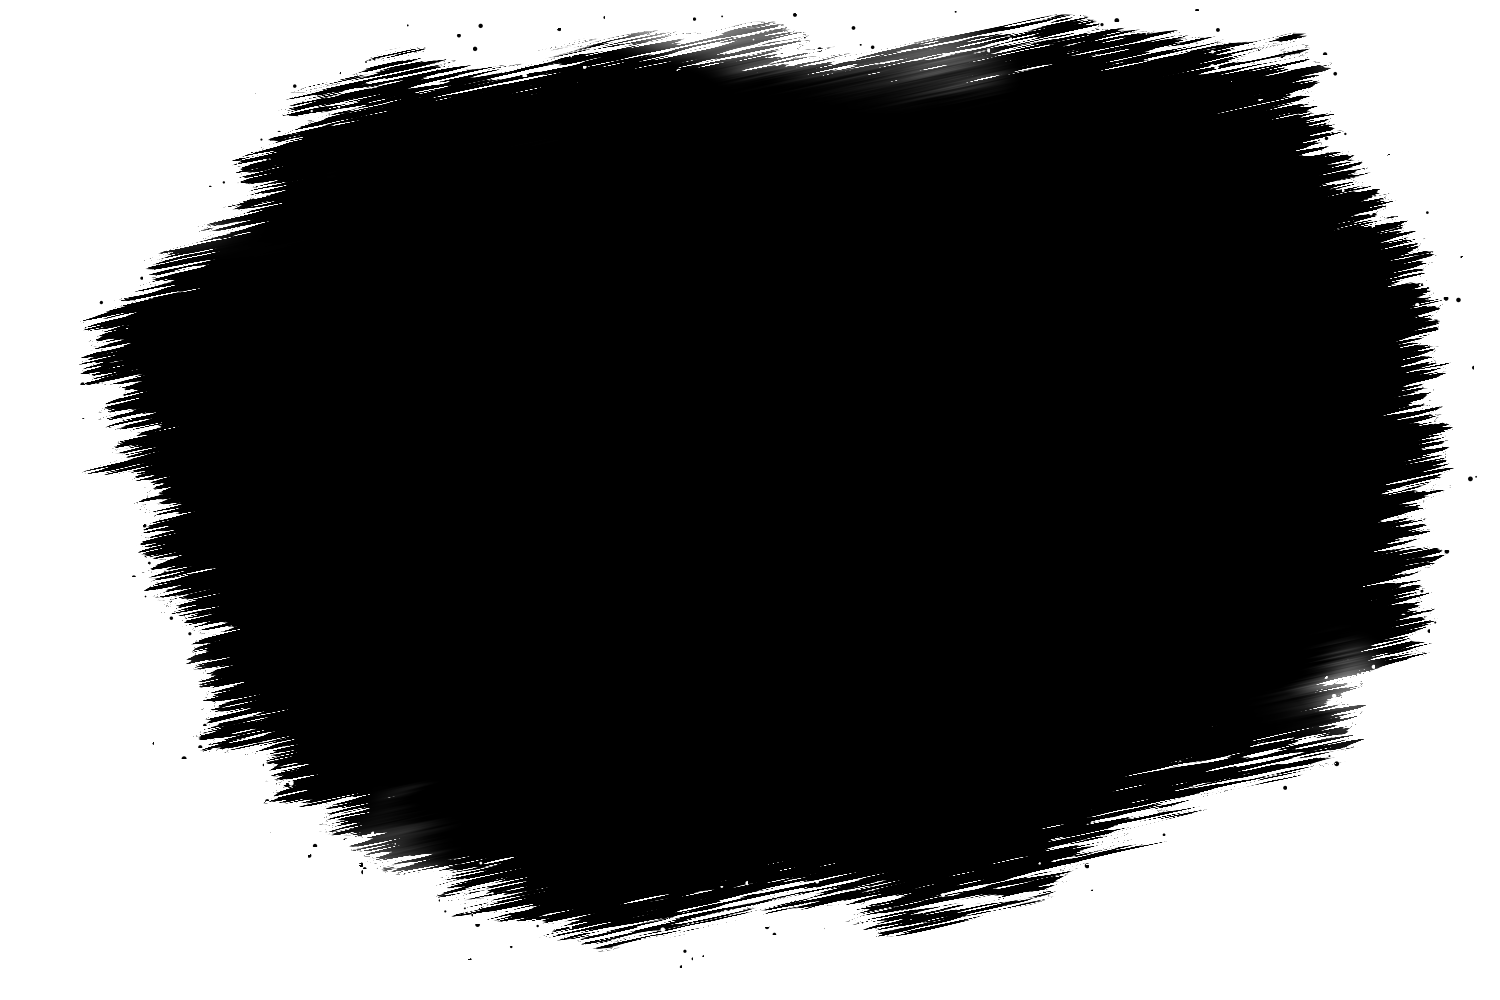
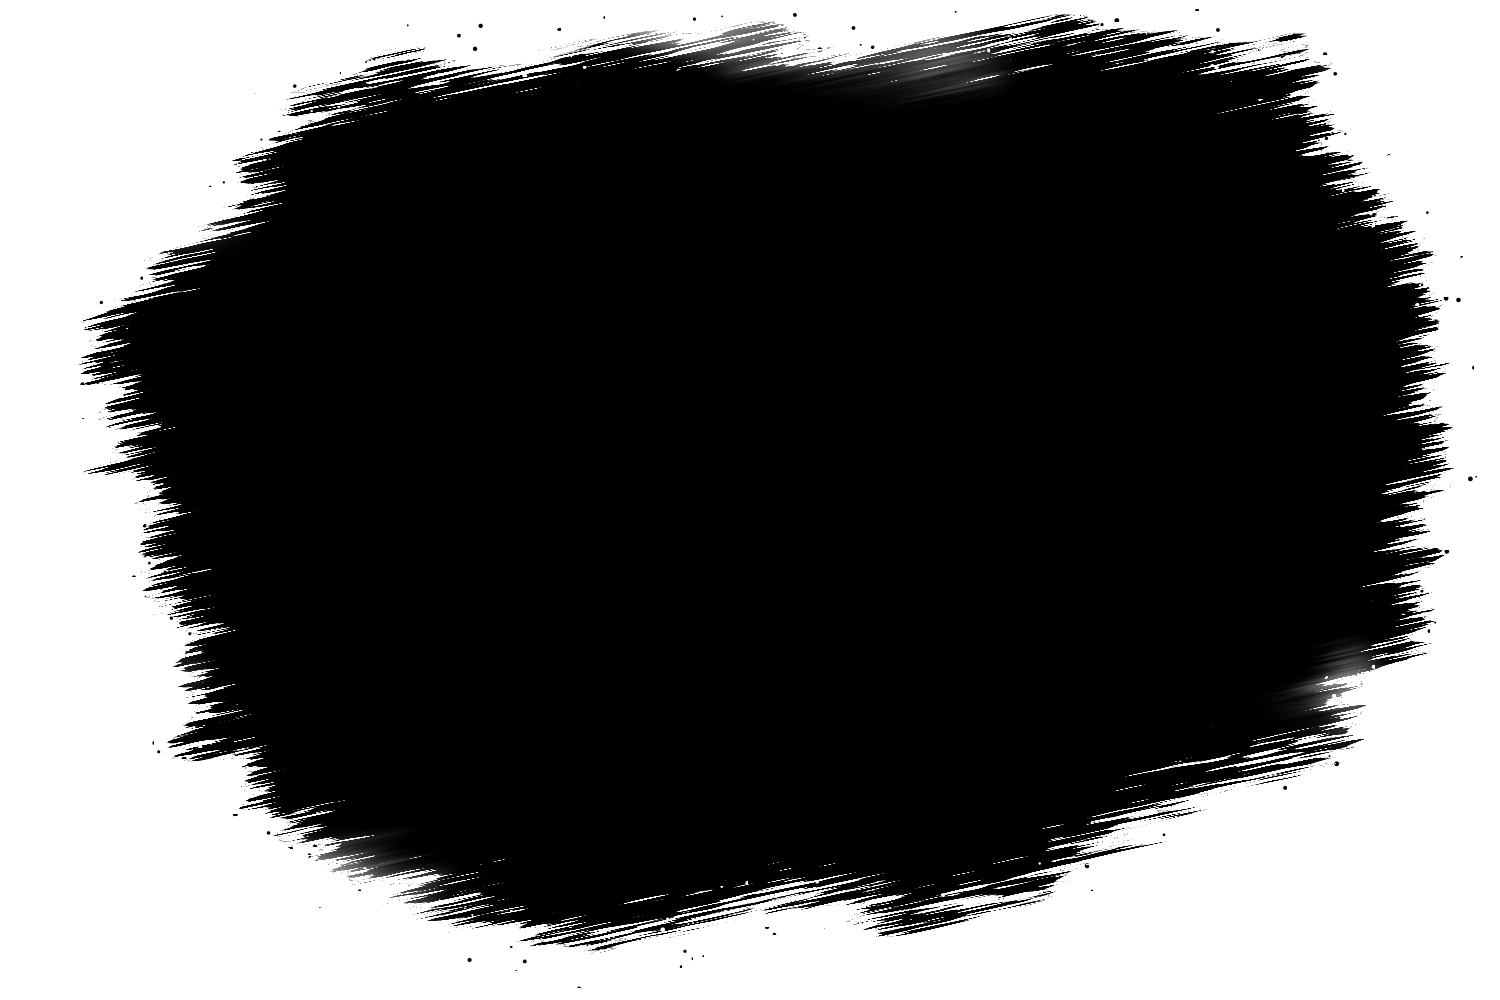
Make WatercolorImage's box the photo and let the watercolor overflow it
- The component's box (3 / 2 by default) is now the solid part of the
  painted photo, so the picture fills the space the layout gives it; the
  backdrop and the photo's brushed fringe overflow it onto neighbouring
  elements without taking layout room. Layer relations are unchanged.
- The photo mask's lower left corner is pushed out, where too much pink
  showed next to the photo.
- Layer sizes hints grow to match the overflowing layers.

Changed region(s): [[0.092, 0.558, 0.4293, 0.961]]

diff --git a/packages/ui/src/public-site/watercolor-image.test.tsx b/packages/ui/src/public-site/watercolor-image.test.tsx
@@ -124,7 +124,7 @@ describe("WatercolorImage", () => {
     );
   });
 
-  it("keeps the mask undistorted and its paint inside the backdrop's box", () => {
+  it("fills its box with the photo, undistorted, and lets the paint overflow", () => {
     // Mask canvas size from the PNG header.
     const png = readFileSync(resolve(publicDir, "watercolor/photo-mask.png"));
     const maskRatio = png.readUInt32BE(16) / png.readUInt32BE(20);
@@ -132,32 +132,40 @@ describe("WatercolorImage", () => {
     expect(png[25]).toBe(3);
     expect(png.includes(Buffer.from("tRNS"))).toBe(true);
 
-    // Photo layer box in the default 16 / 10 composition.
-    const inset = rule(".ks-wc__photo").match(
-      /inset: (-?[\d.]+)% (-?[\d.]+)% (-?[\d.]+)% (-?[\d.]+)%/,
-    );
-    expect(inset).not.toBeNull();
-    const [top, right, bottom, left] = (inset ?? [])
-      .slice(1)
-      .map((value) => Number(value));
-    const width = (100 - left! - right!) * 16;
-    const height = (100 - top! - bottom!) * 10;
-    expect(width / height).toBeCloseTo(maskRatio, 1);
+    const insets = (selector: string) => {
+      const inset = rule(selector).match(
+        /inset: (-?[\d.]+)% (-?[\d.]+)% (-?[\d.]+)% (-?[\d.]+)%/,
+      );
+      expect(inset, selector).not.toBeNull();
+      const [top, right, bottom, left] = (inset ?? [])
+        .slice(1)
+        .map((value) => Number(value));
+      // Width and height as percentages of the box.
+      return {
+        top: top!,
+        right: right!,
+        bottom: bottom!,
+        left: left!,
+        width: 100 - left! - right!,
+        height: 100 - top! - bottom!,
+      };
+    };
+    // Layer ratios in the default 3 / 2 box.
+    const ratio = ({ width, height }: { width: number; height: number }) =>
+      (width * 3) / (height * 2);
+    const photo = insets(".ks-wc__photo");
+    const backdrop = insets(".ks-wc__backdrop");
+    expect(ratio(photo)).toBeCloseTo(maskRatio, 2);
+    expect(ratio(backdrop)).toBeCloseTo(16 / 10, 2);
 
-    // The backdrop spans the whole box. The photo's box may overhang it a
-    // little, but never by more than the mask's transparent margin
-    // (generate-photo-mask.mjs: 53 of 1500 px at the sides, 17 of 1000 at
-    // the top, 50 at the bottom), so its paint stays inside the box and the
-    // watercolor still shows around it.
-    expect(rule(".ks-wc__backdrop")).toContain("inset: 0");
-    const photoWidth = 100 - left! - right!;
-    const photoHeight = 100 - top! - bottom!;
-    expect(left! + (53 / 1500) * photoWidth).toBeGreaterThan(0);
-    expect(right! + (53 / 1500) * photoWidth).toBeGreaterThan(0);
-    expect(top! + (17 / 1000) * photoHeight).toBeGreaterThanOrEqual(0);
-    expect(bottom! + (50 / 1000) * photoHeight).toBeGreaterThan(0);
-    // Larger than the approved target's footprint (90 % of the width).
-    expect(photoWidth).toBeGreaterThan(95);
+    // The box is the solid part of the photo: the mask canvas overhangs it
+    // on every side, by its brushed fringe and margin only.
+    for (const side of ["top", "right", "bottom", "left"] as const) {
+      expect(photo[side], side).toBeLessThan(0);
+      expect(photo[side], side).toBeGreaterThan(-12);
+      // The watercolor overflows the box on every side too.
+      expect(backdrop[side], side).toBeLessThan(0);
+    }
   });
 
   it("crops any upload itself with object-fit and a configurable position", () => {
@@ -195,9 +203,7 @@ describe("WatercolorImage", () => {
     expect(backdropImage(container)).toHaveAttribute("sizes", "50vw");
     expect(root.style.getPropertyValue("--ks-wc-ratio")).toBe("3 / 2");
     // The ratio box reserves space before the images load: no layout shift.
-    expect(rule(".ks-wc")).toContain(
-      "aspect-ratio: var(--ks-wc-ratio, 16 / 10)",
-    );
+    expect(rule(".ks-wc")).toContain("aspect-ratio: var(--ks-wc-ratio, 3 / 2)");
   });
 
   it("renders the handwritten overlay as a real figure caption", () => {

diff --git a/packages/ui/src/public-site/public-site.css b/packages/ui/src/public-site/public-site.css
@@ -21,38 +21,43 @@
 @layer components {
   /* ------------------------------------------------------ WatercolorImage */
 
-  /* One stable box. Both layers are positioned in percentages of it, so the
-     backdrop, the mask and the photo scale together and keep their relation
-     at every width. */
+  /* One stable box: the photo itself. The box is the solid part of the
+     painted photo (3 : 2), so the picture really fills the space the layout
+     gives it; its brushed fringe and the watercolor backdrop overflow the
+     box onto whatever is around it, and take no room in the layout (put the
+     component inside an overflow-x: clip ancestor, as the page's <main>
+     is, so the overflow never scrolls the page sideways). Every layer is
+     positioned in percentages of this box, so they all scale together and
+     keep their relation at every width. */
   .ks-wc {
     position: relative;
     isolation: isolate;
     /* The caption scales with the picture, not the viewport. */
     container-type: inline-size;
-    aspect-ratio: var(--ks-wc-ratio, 16 / 10);
+    aspect-ratio: var(--ks-wc-ratio, 3 / 2);
     width: 100%;
     margin: 0;
   }
 
-  /* Layer 1: the watercolor asset, decorative. It fills the whole box; its
-     painted area reaches past the photo on every side, most on the left
-     (pink) and right (sage). */
+  /* Layer 1: the watercolor asset, decorative, 16 : 10. It overflows the box
+     by about 9 % on either side and 5 % above and below; its painted area
+     reaches past the photo on every side, most on the left (pink) and right
+     (sage). */
   .ks-wc__backdrop {
     position: absolute;
-    inset: 0;
+    inset: -4.52% -8.77% -5.64% -8.64%;
     z-index: -1;
     pointer-events: none;
   }
 
-  /* Layer 2: the photo, cut by the dry-brush mask. The box is the mask
-     canvas (3 : 2, like a typical upload), with the painted silhouette
-     inside it: the approved target's footprint scaled up 1.1x about its
-     centre, so the photo reads larger and covers more of the backdrop. It
-     overhangs the box a little at the top, bottom and left, where the
-     mask's own transparent margin keeps the paint inside it. */
+  /* Layer 2: the photo, cut by the dry-brush mask. Its box is the mask
+     canvas (3 : 2, like a typical upload): the solid part of the painted
+     silhouette in it is the component's box, and the canvas overhangs it
+     by the brushed fringe and the mask's transparent margin. (Relative to
+     the backdrop, this is the approved target's footprint scaled up 1.1x.) */
   .ks-wc__photo {
     position: absolute;
-    inset: -1.7% 1.53% -3.85% -0.56%;
+    inset: -6.4% -6.98% -9.88% -9.3%;
     mask-image: url("/watercolor/photo-mask.png");
     mask-size: 100% 100%;
     mask-repeat: no-repeat;
@@ -71,16 +76,16 @@
      parallax; the rotation below is its resting state. */
   .ks-wc__caption {
     position: absolute;
-    right: 11%;
-    bottom: 21%;
+    right: 4.15%;
+    bottom: 17.49%;
     z-index: 1;
     /* One or two words per line, as in the target, at any size. */
     width: 4.8em;
-    max-width: 40%;
+    max-width: 47%;
     margin: 0;
     color: var(--color-on-primary);
     font-family: var(--font-hand);
-    font-size: clamp(1rem, 4.7cqi, 3.75rem);
+    font-size: clamp(1rem, 5.52cqi, 4.4rem);
     line-height: 1.1;
     font-weight: 600;
     text-align: center;

diff --git a/packages/ui/src/public-site/watercolor-image.tsx b/packages/ui/src/public-site/watercolor-image.tsx
@@ -8,8 +8,12 @@ import { type ReducedMotionMode, WatercolorReveal } from "./watercolor-reveal";
 // The painted look is a static composition of two layers, so the server
 // HTML is already the finished picture:
 //
-//   .ks-wc                    stable aspect-ratio box (16 / 10 by default)
-//   ├── .ks-wc__backdrop      the watercolor asset, decorative, full size
+//   .ks-wc                    stable aspect-ratio box (3 / 2 by default): the
+//   │                         solid part of the painted photo
+//   ├── .ks-wc__backdrop      the watercolor asset, decorative, overflowing
+//   │                         the box on every side (so does the photo's
+//   │                         brushed fringe); keep an overflow-x: clip
+//   │                         ancestor, as the page's <main> is
 //   ├── .ks-wc__photo         the uploaded photo, cropped with object-fit:
 //   │                         cover and cut by the dry-brush photo mask
 //   └── .ks-wc__caption       optional handwritten overlay (real text),
@@ -43,8 +47,9 @@ export interface WatercolorImageProps {
   /** Painted backdrop behind the photo. `null` leaves it out. */
   watercolorSrc?: ImageProps["src"] | null;
   /**
-   * Ratio of the whole composition. The mask and the backdrop are drawn for
-   * 16 / 10 (the default); ratios between 3 / 2 and 2 / 1 still look right.
+   * Ratio of the component's box (the photo; the watercolor overflows it).
+   * The mask and the backdrop are drawn for 3 / 2 (the default); ratios up
+   * to about 2 / 1 still look right.
    */
   aspectRatio?: string;
   /**
@@ -84,7 +89,8 @@ export function WatercolorImage({
   watercolorSrc = defaultWatercolorSrc,
   aspectRatio,
   objectPosition = "50% 50%",
-  sizes = "(min-width: 1024px) 60vw, 100vw",
+  // The layers are about 1.17x the box (the watercolor overflows it).
+  sizes = "(min-width: 1024px) 70vw, 117vw",
   priority = false,
   quality,
   caption,

diff --git a/packages/ui/src/public-site/watercolor-image.stories.tsx b/packages/ui/src/public-site/watercolor-image.stories.tsx
@@ -38,7 +38,9 @@ const alt =
   "Jasny gabinet terapeutyczny z fotelem, stolikiem, regałem z książkami i roślinami przy dużym oknie";
 
 const paper: Decorator = (Story) => (
-  <div className="bg-bg px-gutter font-body text-ink min-h-screen py-12">
+  // The backdrop overflows the component: clip it at the page, as the
+  // site's <main> does.
+  <div className="bg-bg px-gutter font-body text-ink min-h-screen overflow-x-clip py-12">
     <div className="mx-auto max-w-[75rem]">
       <Story />
     </div>
@@ -116,8 +118,9 @@ function Debug({
   );
 }
 
-// Where the photo layer sits in the composition (public-site.css,
-// .ks-wc__photo), to draw its matte in place.
+// Where the photo layer sits relative to the backdrop (public-site.css,
+// .ks-wc__photo and .ks-wc__backdrop), to draw its matte in place on the
+// backdrop-sized debug panels.
 const photoInset = "-1.7% 1.53% -3.85% -0.56%";
 
 // The backdrop picture a story's component uses, as a URL.

diff --git a/packages/ui/src/public-site/feature-section.tsx b/packages/ui/src/public-site/feature-section.tsx
@@ -80,7 +80,8 @@ export function FeatureSection({
         objectPosition={image.objectPosition}
         animationPreset={animationPreset}
         reducedMotionMode={reducedMotionMode}
-        sizes="(min-width: 1024px) 50vw, 100vw"
+        // The layers are about 1.17x the box (the watercolor overflows it).
+        sizes="(min-width: 1024px) 59vw, 117vw"
         className={cn(imagePosition === "left" && "lg:order-first")}
       />
     </section>

diff --git a/packages/ui/src/public-site/hero-section.tsx b/packages/ui/src/public-site/hero-section.tsx
@@ -108,7 +108,8 @@ export function HeroSection({
         animationPreset={animationPreset}
         reducedMotionMode={reducedMotionMode}
         priority
-        sizes="(min-width: 1024px) 55vw, 100vw"
+        // The layers are about 1.17x the box (the watercolor overflows it).
+        sizes="(min-width: 1024px) 65vw, 117vw"
         className="lg:-mr-12 xl:-mr-20"
       />
     </section>

diff --git a/docs/design/kolor-sensu-public-design-system.md b/docs/design/kolor-sensu-public-design-system.md
@@ -143,11 +143,18 @@ Surfaces, from quiet to expressive:
 
 `WatercolorImage` turns an ordinary rectangular photo into the approved painted
 composition (reference B, `painted-hero.png`). It is a static composition of
-two layers in one box with a stable ratio (16 / 10 by default):
+two layers around one box with a stable ratio (3 / 2 by default). The box is
+the photo itself (the solid part of its painted silhouette), so the picture
+fills the space the layout gives it; the watercolor backdrop and the photo's
+brushed fringe overflow it onto the neighbouring elements, breaking the
+page's grid a little on purpose. They take no room in the layout; keep the
+component inside an `overflow-x: clip` ancestor (the page's `<main>` is), so
+the overflow never scrolls the page sideways:
 
 ```
 WatercolorImage (.ks-wc, aspect-ratio box)
-├── backdrop   the watercolor asset, decorative, fills the box
+├── backdrop   the watercolor asset, decorative (16 : 10), overflowing the
+│              box by about 9 % either side and 5 % above and below
 ├── photo      the uploaded photo, cropped by the component and cut by the
 │              dry-brush photo mask
 └── caption    optional handwritten line (real text)
@@ -167,8 +174,8 @@ import { WatercolorImage } from "@repo/ui/public-site";
 ```
 
 Other props: `watercolorSrc` (another backdrop, or `null` for none),
-`aspectRatio` (the composition is drawn for 16 / 10; 3 / 2 to 2 / 1 still look
-right, beyond that the mask and backdrop stretch visibly), `quality`,
+`aspectRatio` (the box, drawn for 3 / 2; up to about 2 / 1 still looks right,
+beyond that the mask and backdrop stretch visibly), `quality`,
 `className`, `imageClassName`, `style`.
 
 **Backdrop.** `watercolor-background.webp` is the approved painted backdrop
@@ -234,11 +241,12 @@ readable on any photo.
   that one box, so they scale together and keep the same relation at every
   width (checked at 1440, 768 and 390 px). The mask never stretches in the
   default ratio.
-- The photo layer is the approved target's footprint scaled up 1.1× (it
-  covers more of the backdrop), overhanging the box a little where the
-  mask's transparent margin keeps its paint inside; the silhouette's left
-  bulge is pulled in (`generate-photo-mask.mjs`), so the pink shows down the
-  whole left edge.
+- Relative to the backdrop, the photo layer is the approved target's
+  footprint scaled up 1.1× (it covers more of the backdrop). In the mask
+  (`generate-photo-mask.mjs`) the silhouette's left bulge is pulled in, so
+  the pink shows down the whole left edge, and its lower left corner is
+  pushed out, where too much pink showed.
+- Pass `sizes` for the layers, about 1.17× the box (they overflow it).
 - The painted edge covers roughly 5–10 % of the photo on each side; keep
   subjects away from the very edge or move them in with `objectPosition`.
 - The caption scales with the picture (container query units), not with the
